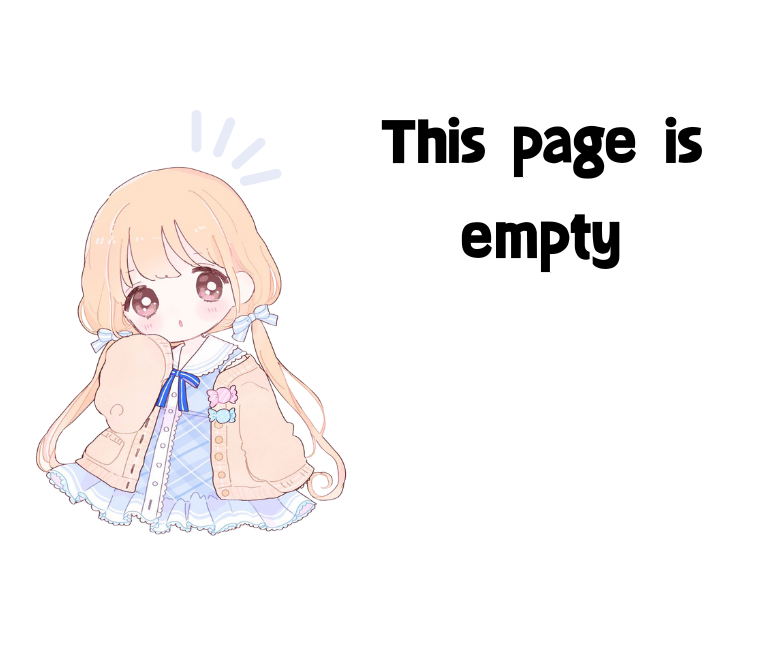
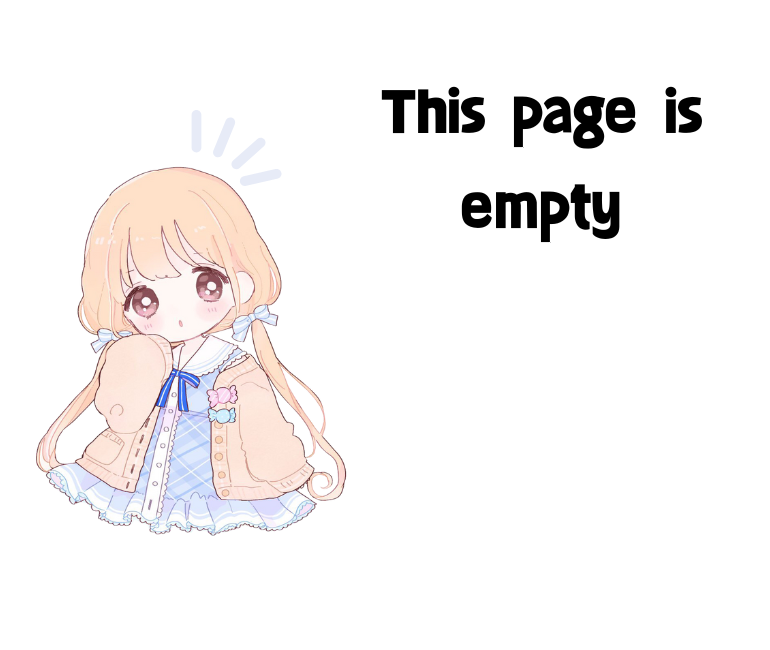
Update UserPage

Changed region(s): [[0.4987, 0.1231, 0.9351, 0.4308]]

diff --git a/src/gui/MainWindow.py b/src/gui/MainWindow.py
@@ -538,13 +538,13 @@ class Ui_MainWindow(object):
         self.User.setObjectName("User")
         self.UserPage_Background = QtWidgets.QFrame(self.User)
         self.UserPage_Background.setGeometry(QtCore.QRect(0, 0, 770, 650))
-        self.UserPage_Background.setStyleSheet("border-radius: 15px;\n"
-"background-image: url(./src/gui/image/UserPage_Background.png);")
+        self.UserPage_Background.setStyleSheet("#UserPage_Background{border-radius: 15px;\n"
+"background-image: url(./src/gui/image/UserPage_Background.png);}")
         self.UserPage_Background.setFrameShape(QtWidgets.QFrame.StyledPanel)
         self.UserPage_Background.setFrameShadow(QtWidgets.QFrame.Raised)
         self.UserPage_Background.setObjectName("UserPage_Background")
         self.verticalLayoutWidget_3 = QtWidgets.QWidget(self.UserPage_Background)
-        self.verticalLayoutWidget_3.setGeometry(QtCore.QRect(370, 350, 381, 139))
+        self.verticalLayoutWidget_3.setGeometry(QtCore.QRect(370, 320, 381, 201))
         self.verticalLayoutWidget_3.setObjectName("verticalLayoutWidget_3")
         self.verticalLayout = QtWidgets.QVBoxLayout(self.verticalLayoutWidget_3)
         self.verticalLayout.setContentsMargins(0, 0, 0, 0)
@@ -552,23 +552,45 @@ class Ui_MainWindow(object):
         self.hint_hyperlink = QtWidgets.QLabel(self.verticalLayoutWidget_3)
         font = QtGui.QFont()
         font.setFamily("華康少女文字W7")
-        font.setPointSize(18)
+        font.setPointSize(14)
         font.setBold(True)
         font.setWeight(75)
         self.hint_hyperlink.setFont(font)
         self.hint_hyperlink.setObjectName("hint_hyperlink")
         self.verticalLayout.addWidget(self.hint_hyperlink)
+        self.hint_logisticsStation = QtWidgets.QLabel(self.verticalLayoutWidget_3)
+        font = QtGui.QFont()
+        font.setFamily("華康少女文字W7")
+        font.setPointSize(12)
+        self.hint_logisticsStation.setFont(font)
+        self.hint_logisticsStation.setObjectName("hint_logisticsStation")
+        self.verticalLayout.addWidget(self.hint_logisticsStation)
+        self.label_logisticsStation = QtWidgets.QLabel(self.verticalLayoutWidget_3)
+        font = QtGui.QFont()
+        font.setFamily("Consolas")
+        font.setPointSize(10)
+        self.label_logisticsStation.setFont(font)
+        self.label_logisticsStation.setObjectName("label_logisticsStation")
+        self.verticalLayout.addWidget(self.label_logisticsStation)
+        self.hint_Author = QtWidgets.QLabel(self.verticalLayoutWidget_3)
+        font = QtGui.QFont()
+        font.setFamily("華康少女文字W7")
+        font.setPointSize(12)
+        self.hint_Author.setFont(font)
+        self.hint_Author.setObjectName("hint_Author")
+        self.verticalLayout.addWidget(self.hint_Author)
         self.label_hmes98318 = QtWidgets.QLabel(self.verticalLayoutWidget_3)
         font = QtGui.QFont()
         font.setFamily("Consolas")
-        font.setPointSize(14)
+        font.setPointSize(10)
         self.label_hmes98318.setFont(font)
+        self.label_hmes98318.setAlignment(QtCore.Qt.AlignLeading|QtCore.Qt.AlignLeft|QtCore.Qt.AlignVCenter)
         self.label_hmes98318.setObjectName("label_hmes98318")
         self.verticalLayout.addWidget(self.label_hmes98318)
         self.label_sakura0711 = QtWidgets.QLabel(self.verticalLayoutWidget_3)
         font = QtGui.QFont()
         font.setFamily("Consolas")
-        font.setPointSize(14)
+        font.setPointSize(10)
         self.label_sakura0711.setFont(font)
         self.label_sakura0711.setObjectName("label_sakura0711")
         self.verticalLayout.addWidget(self.label_sakura0711)
@@ -647,7 +669,11 @@ class Ui_MainWindow(object):
         self.hint_clientIP.setText(_translate("MainWindow", "IP地址(IPv4) :"))
         self.hint_clientPort.setText(_translate("MainWindow", "Port(0~65535) :"))
         self.hint_saveFolderPath.setText(_translate("MainWindow", "存檔位置 :"))
-        self.hint_hyperlink.setText(_translate("MainWindow", "For more details visit"))
-        self.label_hmes98318.setText(_translate("MainWindow", "  ‧hmes98318"))
-        self.label_sakura0711.setText(_translate("MainWindow", "  ‧sakura0711"))
-        
+        self.hint_hyperlink.setText(_translate("MainWindow", "For more details visit\n"
+""))
+        self.hint_logisticsStation.setText(_translate("MainWindow", "Repository"))
+        self.label_logisticsStation.setText(_translate("MainWindow", "   ‧ Logistics-Station"))
+        self.hint_Author.setText(_translate("MainWindow", "Author"))
+        self.label_hmes98318.setText(_translate("MainWindow", "   ‧ hmes98318"))
+        self.label_sakura0711.setText(_translate("MainWindow", "   ‧ sakura0711"))
+

diff --git a/src/gui/controller.py b/src/gui/controller.py
@@ -199,10 +199,13 @@ class MainWindow_controller(QtWidgets.QWidget):
         
         # --------------標籤超連結----------------------------------------
         
-        self.ui.label_hmes98318.setText('  ‧<a href="https://github.com/hmes98318">hmes98318</a>')
+        self.ui.label_logisticsStation.setText('    ‧ <a href="https://github.com/hmes98318/Logistics-Station">Logistics-Station</a>')
+        self.ui.label_logisticsStation.setOpenExternalLinks(True)  # 使其成為超連結
+        self.ui.label_logisticsStation.setTextInteractionFlags(Qt.TextBrowserInteraction)  # 雙擊可以選擇
+        self.ui.label_hmes98318.setText('     ‧ <a href="https://github.com/hmes98318">hmes98318</a>')
         self.ui.label_hmes98318.setOpenExternalLinks(True)  # 使其成為超連結
         self.ui.label_hmes98318.setTextInteractionFlags(Qt.TextBrowserInteraction)  # 雙擊可以選擇
-        self.ui.label_sakura0711.setText('  ‧<a href="https://github.com/sakura0711">sakura0711</a>')
+        self.ui.label_sakura0711.setText('     ‧ <a href="https://github.com/sakura0711">sakura0711</a>')
         self.ui.label_sakura0711.setOpenExternalLinks(True)  # 使其成為超連結
         self.ui.label_sakura0711.setTextInteractionFlags(Qt.TextBrowserInteraction)  # 雙擊可以選擇
 
